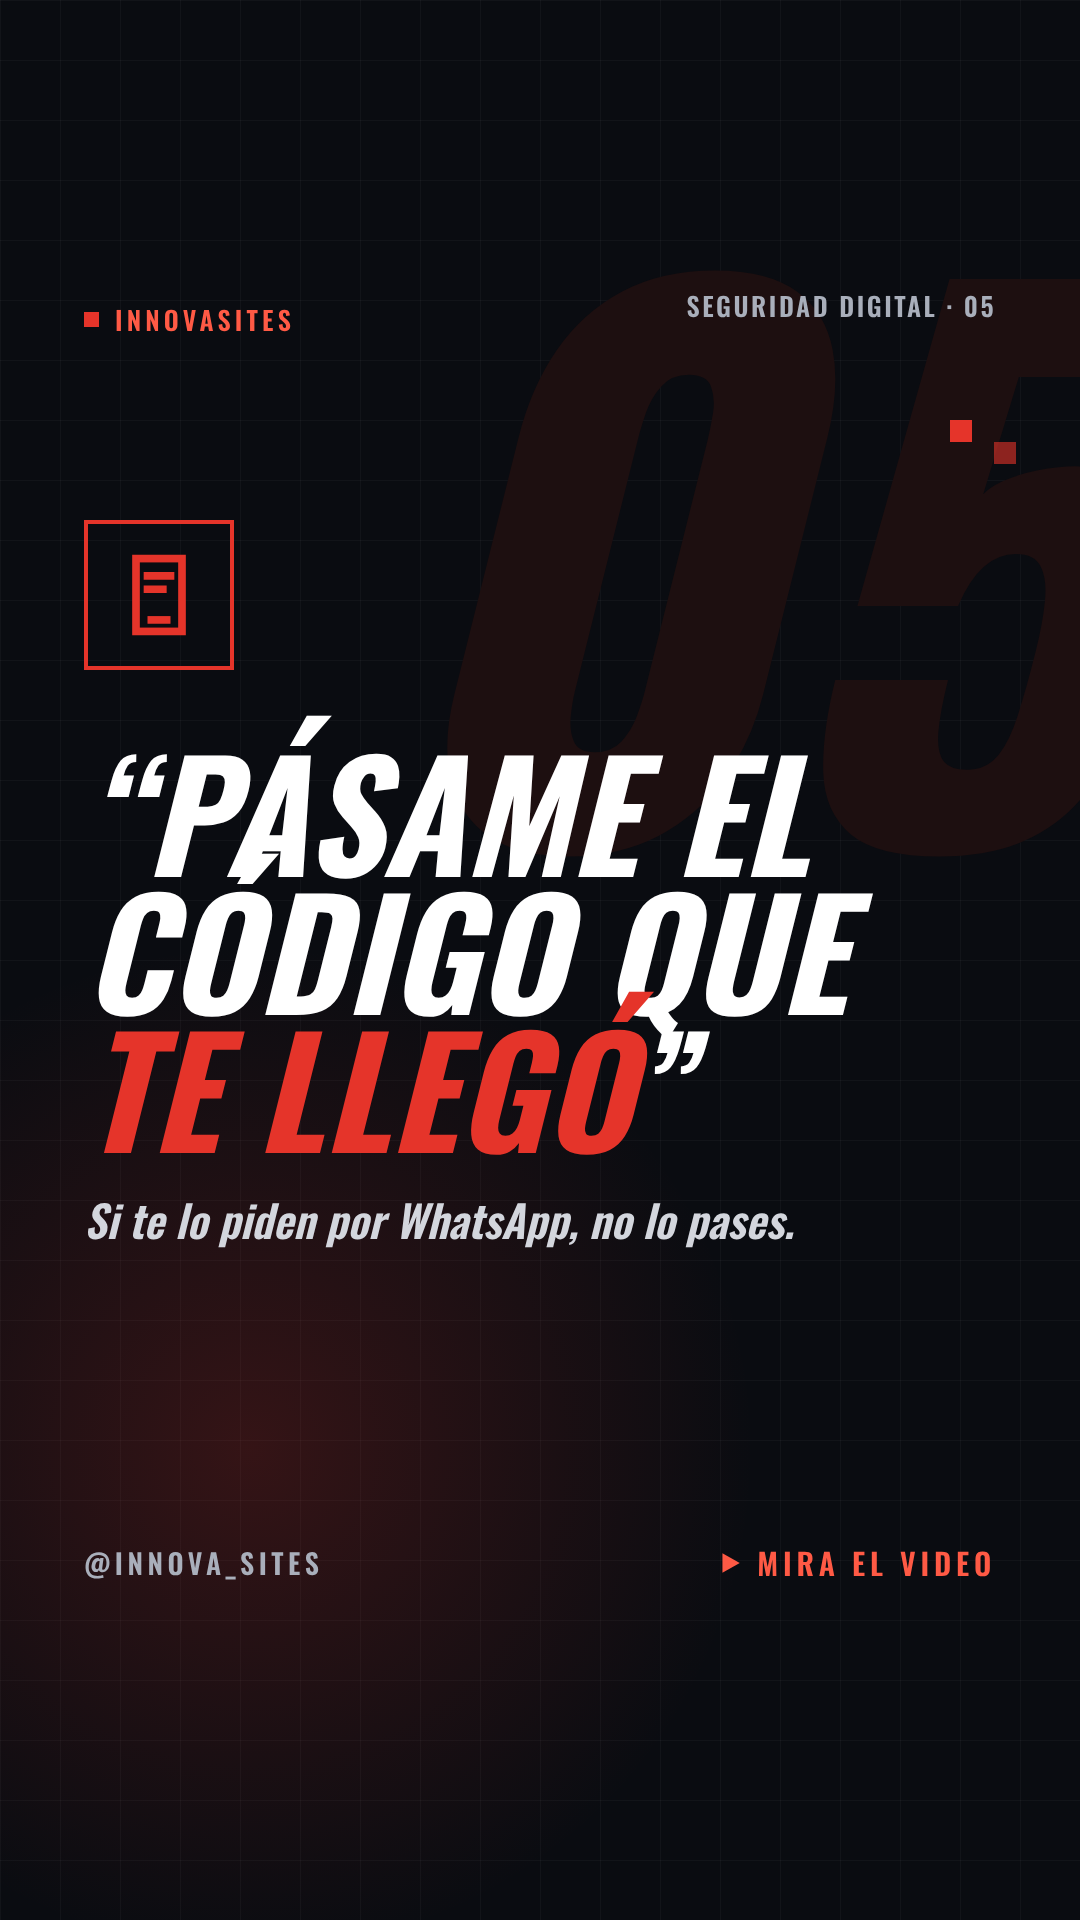
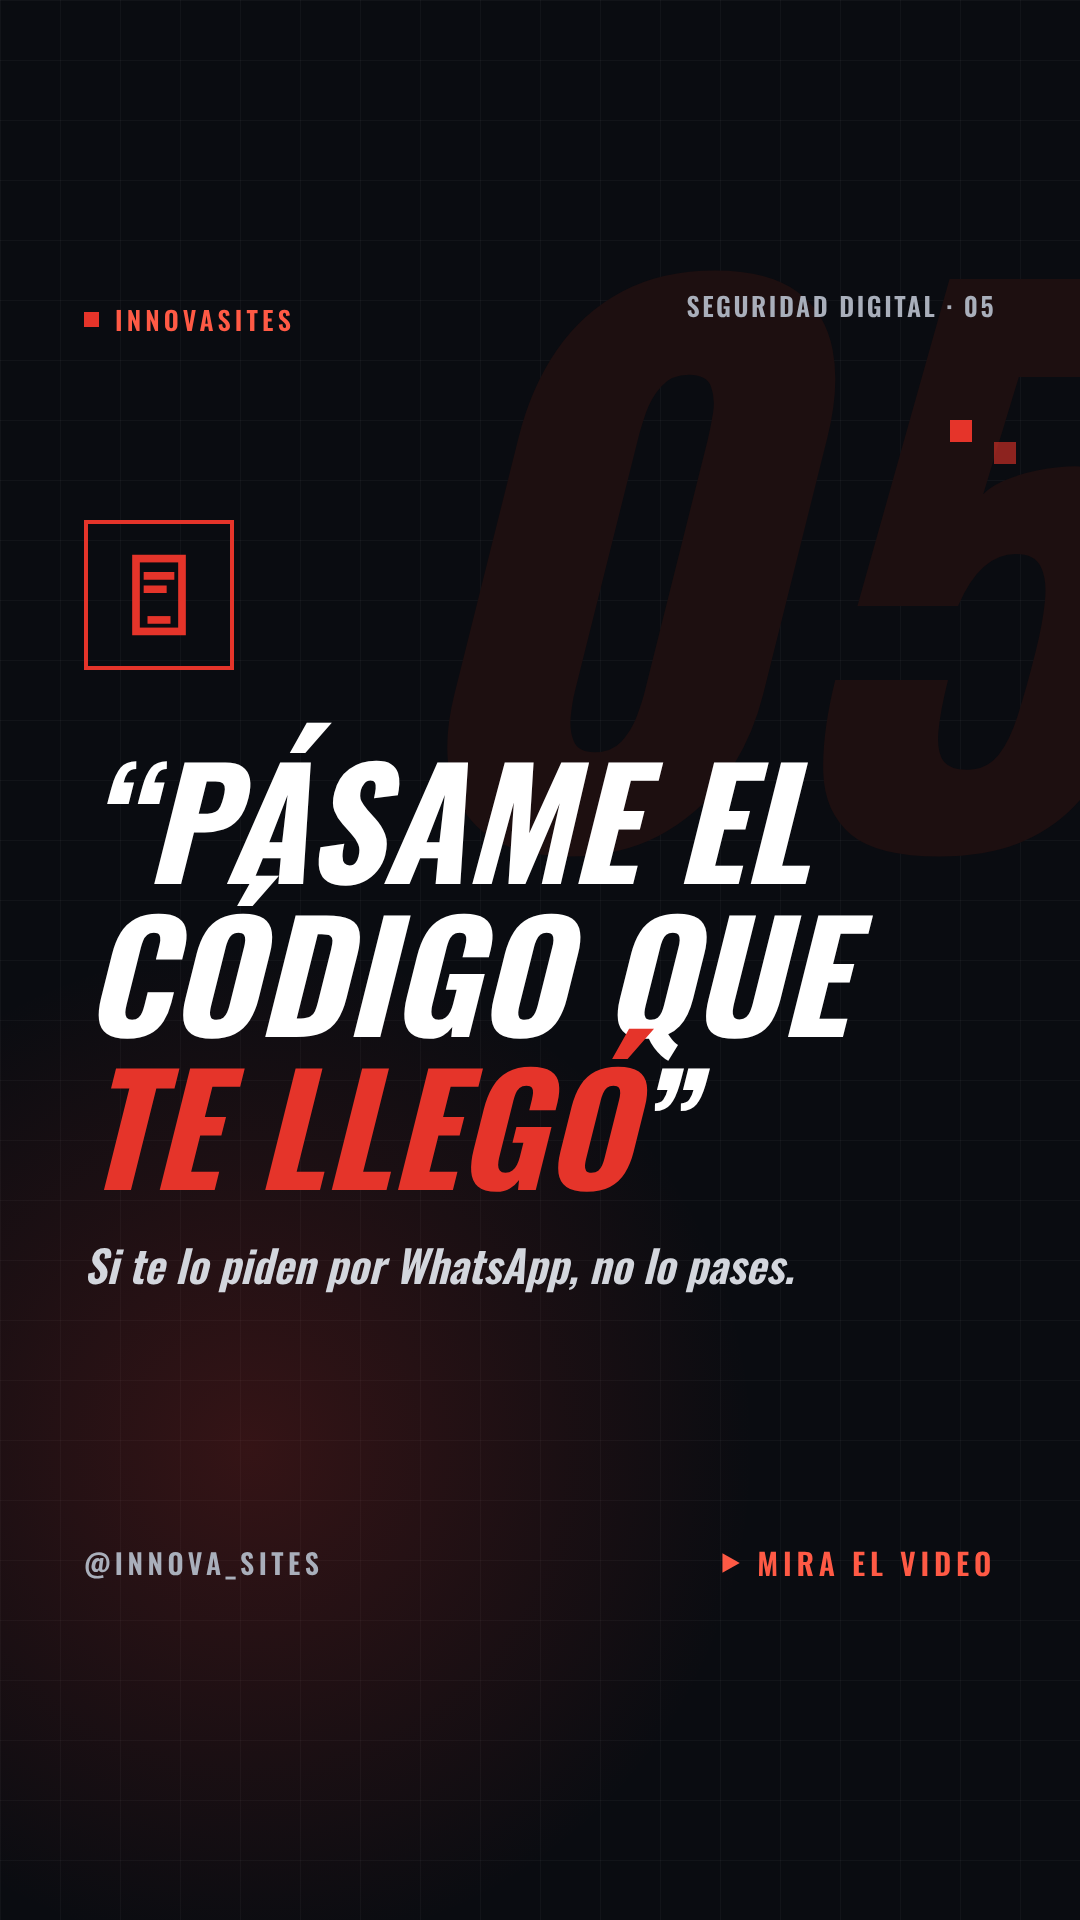
Portada reel 9 nov: interlineado
Claude-Session: https://claude.ai/code/session_0146SzCzHnp8h9f7uQc1exzh

Changed region(s): [[0.0611, 0.375, 0.825, 0.6875], [0.4583, 0.375, 0.4889, 0.4062]]

diff --git a/fuente/perfil-instagram/pieces.html b/fuente/perfil-instagram/pieces.html
@@ -77,7 +77,7 @@ Object.entries(RC).forEach(([k,c])=>{P[k]=()=>({w:1080,h:1920,html:`
 <div style="position:absolute;right:84px;top:286px" class="osw"><span style="font-size:26px;color:var(--muted)">Seguridad digital · ${c.n}</span></div>
 <div style="position:absolute;left:84px;top:520px;color:var(--red);"><div style="width:150px;height:150px;border:4px solid var(--red);display:grid;place-items:center">${icon(c.ic,92,2)}</div></div>
 <div style="position:absolute;left:84px;right:70px;top:740px">
- <div class="disp" style="font-size:${c.t.length>3?132:150}px">${c.t.map(x=>`<div>${x}</div>`).join('')}</div>
+ <div class="disp" style="font-size:${c.t.length>3?132:150}px;line-height:1.02">${c.t.map(x=>`<div>${x}</div>`).join('')}</div>
  <div style="margin-top:40px;font:italic 600 44px/1.2 Oswald;color:#D3D6DD">${c.s}</div></div>
 <div style="position:absolute;left:84px;right:84px;top:1540px;display:flex;justify-content:space-between;align-items:center">${W}
 <span class="osw" style="font-size:30px;color:var(--red2);display:flex;align-items:center;gap:14px"><svg width="26" height="26" viewBox="0 0 24 24"><path d="M5 3l16 9-16 9z" fill="currentColor"/></svg>Mira el video</span></div>
